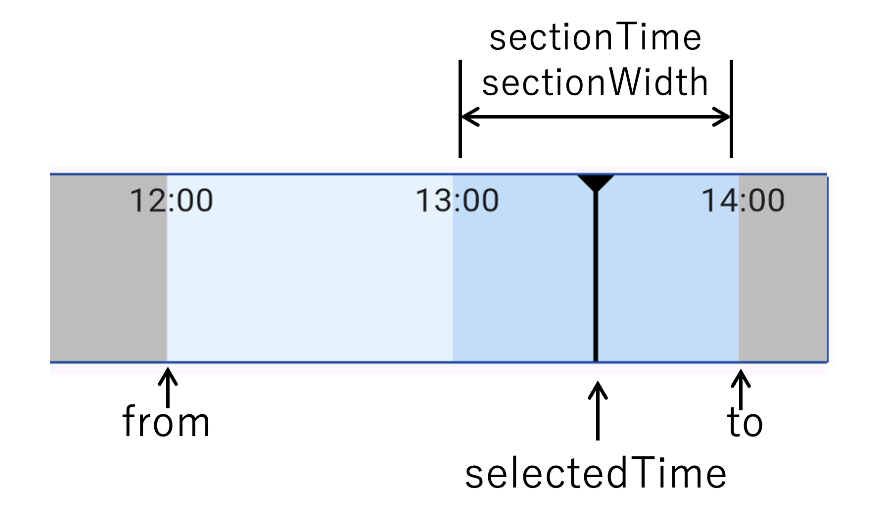
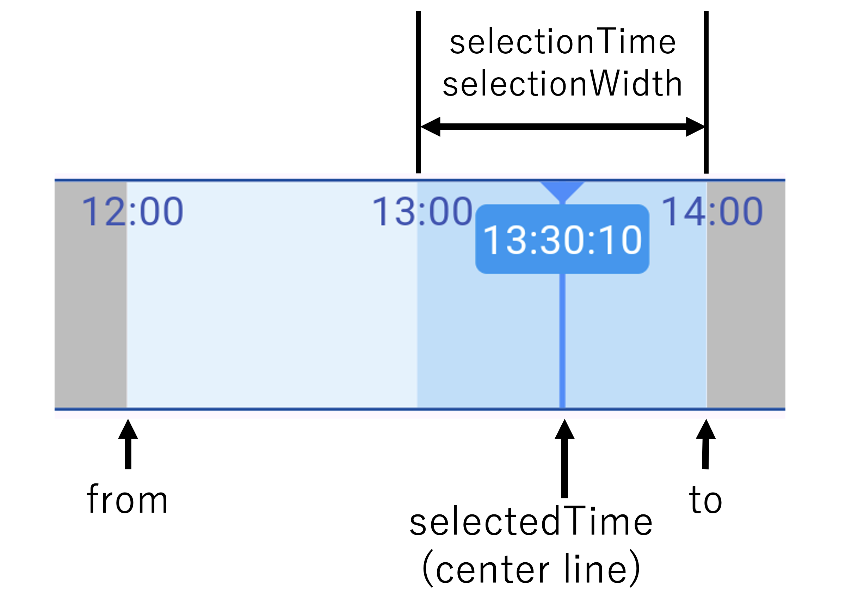
Add features * Add color properties * Add to display current time on center line

Changed region(s): [[0.0308, 0.0309, 0.955, 0.9884]]

diff --git a/lib/time_seek_slider.dart b/lib/time_seek_slider.dart
@@ -3,6 +3,7 @@ library time_seek_slider;
 
 import 'package:flutter/material.dart';
 import 'package:flutter/rendering.dart';
+import 'package:intl/intl.dart';
 // import 'package:intl/intl.dart';
 
 class TimeSeekSlider extends StatefulWidget {
@@ -14,8 +15,13 @@ class TimeSeekSlider extends StatefulWidget {
     this.to,
     this.sectionTime = sectionHour,
     this.sectionWidth = 120,
+    this.timeTextColor,
     this.sectionColorPrimery,
     this.sectionColorSecondary,
+    this.centerLineColor,
+    this.showCurrentTime,
+    this.currentTimeTextColor,
+    this.currentTimeTextBackgroundColor,
     this.events,
     required this.onChangedSelectedTime,
     this.onChangingSelectedTime,
@@ -47,6 +53,9 @@ class TimeSeekSlider extends StatefulWidget {
   /// Width should be larger than width of 5 letters.
   final int sectionWidth;
 
+  /// Color of time text.
+  final Color? timeTextColor;
+
   /// Color of primery section.
   ///
   /// Set both of [sectionColorPrimery] and [sectionColorSecondary]
@@ -58,6 +67,16 @@ class TimeSeekSlider extends StatefulWidget {
   /// Set both of [sectionColorPrimery] and [sectionColorSecondary]
   /// if you want to define the colors.
   final Color? sectionColorSecondary;
+
+  /// Color of center line
+  final Color? centerLineColor;
+
+  /// Show current time over center line
+  final ShowCurrentTime? showCurrentTime;
+
+  /// Color of current time Text
+  final Color? currentTimeTextColor;
+  final Color? currentTimeTextBackgroundColor;
 
   /// List of events.
   ///
@@ -128,6 +147,7 @@ class TimeSeekSliderState extends State<TimeSeekSlider> {
     _scrollController.addListener(_scrollListener);
 
     _currentTime = widget.selectedTime;
+    _draggingTime = _currentTime;
     // set period end to (current time + 10 sections).
     _periodEnd = _calcPeriod(_currentTime.add(Duration(seconds: widget.sectionTime * _numSections)));
     // set available period of ListView.
@@ -294,6 +314,7 @@ class TimeSeekSliderState extends State<TimeSeekSlider> {
       }
     }
     _currentTime = newTime;
+    _draggingTime = newTime;
 
     // Notify the position changed to the parent widget.
     widget.onChangedSelectedTime(newTime);
@@ -377,6 +398,16 @@ class TimeSeekSliderState extends State<TimeSeekSlider> {
           _numSections = 10;
         }
         //print('[TimeSeekSlider.LayoutBuilder] (w, h)=(${_width}, ${_height}) , offset=$_offset, numSections=$_numSections');
+
+        // Show current time over center line
+        var showCurrentTime = false;
+        if (widget.showCurrentTime != null) {
+          if (widget.showCurrentTime == ShowCurrentTime.showAlways) {
+            showCurrentTime = true;
+          } else if (widget.showCurrentTime == ShowCurrentTime.showDuringDragging && _isScrolling) {
+            showCurrentTime = true;
+          }
+        }
 
         // Scroll ListView to specific position.
         if (_isScrolling == false) {
@@ -472,12 +503,16 @@ class TimeSeekSliderState extends State<TimeSeekSlider> {
                         // ':mm' or '/dd'
                         Align(
                           alignment: const Alignment(-1.0, -1.0),
-                          child: Text(periodStartText),
+                          child: Text(periodStartText,
+                            style: TextStyle(color: widget.timeTextColor ?? Colors.black),
+                          ),
                         ),
                         // 'HH' or 'M'
                         Align(
                           alignment: const Alignment(1.0, -1.0),
-                          child: Text(periodEndText),
+                          child: Text(periodEndText,
+                            style: TextStyle(color: widget.timeTextColor ?? Colors.black),
+                          ),
                         ),
                         // Events
                         for(var oe in overlayEvents)
@@ -497,20 +532,46 @@ class TimeSeekSliderState extends State<TimeSeekSlider> {
               // Center Line
               Align(
                 alignment: const Alignment(0.0, -1.0),
-                child: Container(width: 2, color: Colors.black,),
+                child: Container(width: 2, color: widget.centerLineColor ?? Colors.black,),
               ),
               Align(
                 alignment: const Alignment(0.0, -1.0),
                 child: CustomPaint(
                   size: Size(_height * 0.2, _height * 0.1),
-                  painter: TrianglePaint(),
+                  painter: TrianglePaint(fillColor: widget.centerLineColor),
                 )
               ),
+              if (showCurrentTime)
+                Align(
+                  alignment: const Alignment(0.0, -1.0),
+                  child: Padding(
+                    padding: EdgeInsets.only(top: _height * 0.1),
+                    child: Container(
+                      padding: const EdgeInsets.all(2),
+                      decoration: BoxDecoration(
+                          borderRadius: BorderRadius.circular(4),
+                          color: widget.currentTimeTextBackgroundColor ?? Colors.transparent),
+                      child: Text(DateFormat('HH:mm:ss').format(_draggingTime),
+                        style: TextStyle(color: widget.currentTimeTextColor ?? Colors.black),
+                      ),
+                    ),
+                  ),
+                ),
             ],
           ),
         );
       });
   }
+}
+
+/// Type of show current time.
+enum ShowCurrentTime {
+  /// don't show current time
+  dontShow,
+  /// show current time always
+  showAlways,
+  /// show current time during dragging
+  showDuringDragging,
 }
 
 /// Event information class.
@@ -603,6 +664,10 @@ class OverlayEvent {
 
 /// Draw upside down triangle.
 class TrianglePaint extends CustomPainter {
+  Color? fillColor;
+
+  TrianglePaint({this.fillColor});
+
   @override
   void paint(Canvas canvas, Size size) {
     final path = Path()
@@ -612,7 +677,7 @@ class TrianglePaint extends CustomPainter {
       ..lineTo(0, 0,);
 
     final paint = Paint()
-      ..color = Colors.black
+      ..color = fillColor ?? Colors.black
       ..style = PaintingStyle.fill
       ..strokeWidth = 2;
 

diff --git a/example/lib/main.dart b/example/lib/main.dart
@@ -132,9 +132,14 @@ class _MyHomePageState extends State<MyHomePage> {
                     to: _to,
                     selectedTime: _selectedTime,
                     sectionTime: _sectionTime,
-                    sectionWidth: 120,
+                    sectionWidth: 100,
+                    timeTextColor: Colors.indigo,
                     sectionColorPrimery: Colors.blue[50],
                     sectionColorSecondary: Colors.blue[100],
+                    centerLineColor: Colors.blueAccent,
+                    showCurrentTime: ShowCurrentTime.showDuringDragging,
+                    currentTimeTextColor: Colors.white,
+                    currentTimeTextBackgroundColor: Colors.blue,
                     events: timeEvents,
                     onChangingSelectedTime: (time) {
                       // print('[onChangingSelectedTime] time=${formatter.format(time)}');

diff --git a/README.md b/README.md
@@ -21,6 +21,8 @@ Time Seek Slider widget to display and select date and time.
 - Set width of section (sectionWidth)
 - Select time of section (sectionTime: 1m, 10m, 1h, 3h, 12h, 24h)
 - Select color of primary and secondary section
+- Select color of time text
+- Show current time over center line
 - Add event layer overlay with height / color / period
 - Drag or Tap to change selected DateTime
 - Recieve event changed time
@@ -28,7 +30,7 @@ Time Seek Slider widget to display and select date and time.
 
 ## Getting started
 
-Add `time_seek_slider: ^0.0.4` to your `pubspec.yaml` dependencies. And import it:
+Add `time_seek_slider: ^0.0.5` to your `pubspec.yaml` dependencies. And import it:
 ```
 import 'package:time_seek_slider/time_seek_slider.dart';
 ```
@@ -80,8 +82,13 @@ TimeSeekSlider(
 | to | O | DateTime | End time of fixed term |
 | sectionTime | O | int | Time of one section |
 | sectionWidth | O | int | Width (px) of one section |
+| timeTextColor | O | Color | Color of time text |
 | sectionColorPrimery | O | Color | Color of primery section |
 | sectionColorSecondary | O | Color | Color of secondary section |
+| centerLineColor | O | Color | Color of center line (current time line) |
+| showCurrentTime | O | ShowCurrentTime | Show current time over center line |
+| currentTimeTextColor | O | Color | Color of current time text |
+| currentTimeTextBackgroundColor | O | Color | Background color of current time text |
 | events | O | List< TimeEvent >? | Event information displayed overlay the slider |
 
 

diff --git a/CHANGELOG.md b/CHANGELOG.md
@@ -1,3 +1,10 @@
+## 0.0.5
+
+* Add color properties
+  - Time text
+  - Line of current time
+* Add to display current time on center line
+
 ## 0.0.4
 
 * Add event `onChangingSelectedTime`
